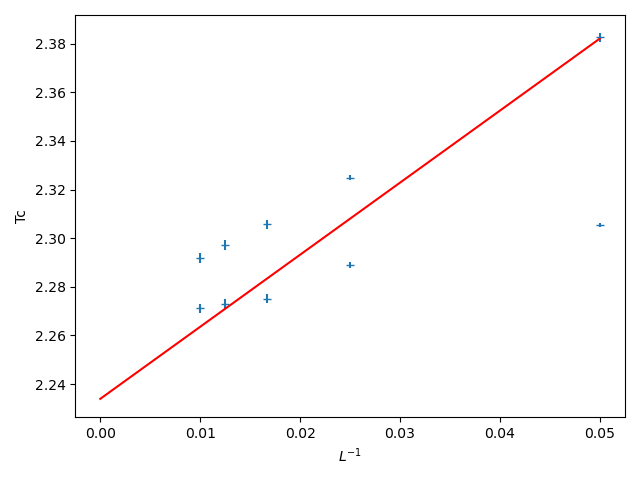
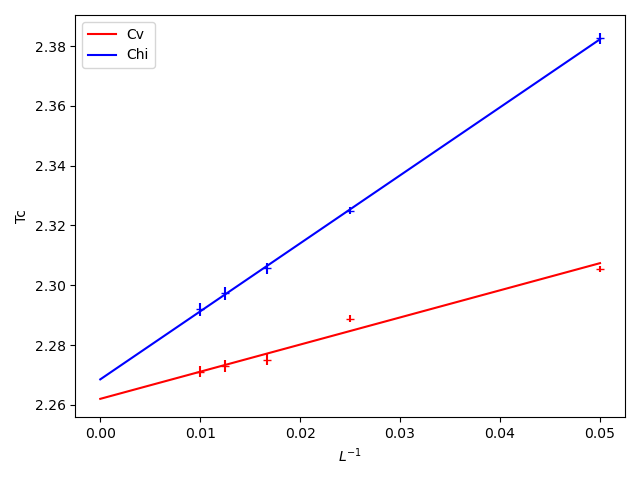
Seperated findig of Tc into Cv and Chi

diff --git a/problem8.py b/problem8.py
@@ -145,9 +145,10 @@ plt.plot(L_range, f_lin(output_Cv.beta, L_range), "r-", label = "Cv")
 plt.plot(L_range, f_lin(output_Chi.beta, L_range), "b-", label = "Chi")
 plt.xlabel("$L^{-1}$")
 plt.ylabel("Tc")
+plt.legend()
 plt.tight_layout()
 plt.savefig("Data/Problem8/Tc_plot.png")
 
 print("\n")
-print(f"Tc = {output_Cv.beta[1]} +/- {output_Cv.sd_beta[1]}")
-print(f"Tc = {output_Chi.beta[1]} +/- {output_Chi.sd_beta[1]}")
+print(f"Using Cv: Tc = {output_Cv.beta[1]} +/- {output_Cv.sd_beta[1]}")
+print(f"Using Chi: Tc = {output_Chi.beta[1]} +/- {output_Chi.sd_beta[1]}")
